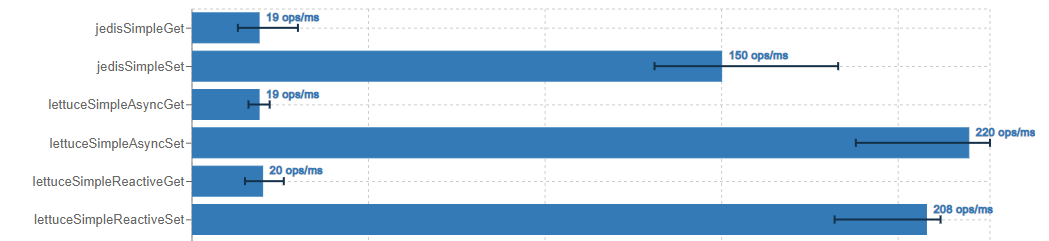
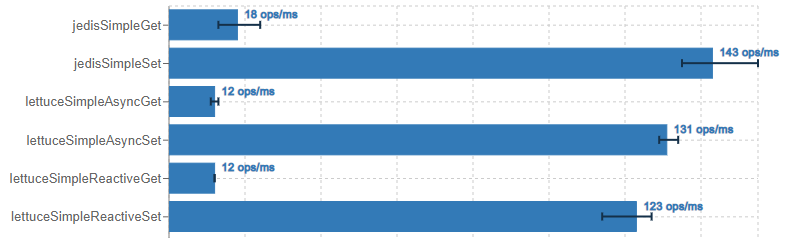
Updating sentinel benchmarks.

Changed region(s): [[0.0, 0.0, 1.0, 1.0], [0.8788, 0.0882, 0.9091, 0.1176], [0.6667, 0.0882, 0.697, 0.1176]]

diff --git a/README.md b/README.md
@@ -111,21 +111,21 @@ $ java -jar target/benchmarks.jar -wi 20 -i 20 -t 100 -f 3
 # Run complete. Total time: 02:11:18
 
 Benchmark                                 Mode  Cnt    Score   Error   Units
-RedisBenchmark.jedisSimpleGet            thrpt   60   18.339 ± 1.615  ops/ms
-RedisBenchmark.jedisSimpleSet            thrpt   60  144.416 ± 1.943  ops/ms
-RedisBenchmark.lettuceSimpleAsyncGet     thrpt   60   12.270 ± 0.235  ops/ms
-RedisBenchmark.lettuceSimpleAsyncSet     thrpt   60  131.237 ± 0.774  ops/ms
-RedisBenchmark.lettuceSimpleReactiveGet  thrpt   60   12.481 ± 0.110  ops/ms
-RedisBenchmark.lettuceSimpleReactiveSet  thrpt   60  125.046 ± 1.227  ops/ms
-RedisBenchmark.jedisSimpleGet             avgt   40    7.672 ± 1.247   ms/op
-RedisBenchmark.jedisSimpleSet             avgt   60    0.685 ± 0.012   ms/op
-RedisBenchmark.lettuceSimpleAsyncGet      avgt   60    8.107 ± 0.066   ms/op
-RedisBenchmark.lettuceSimpleAsyncSet      avgt   60    0.752 ± 0.007   ms/op
-RedisBenchmark.lettuceSimpleReactiveGet   avgt   60    8.108 ± 0.107   ms/op
-RedisBenchmark.lettuceSimpleReactiveSet   avgt   60    0.826 ± 0.014   ms/op
+RedisBenchmark.jedisSimpleGet            thrpt   60   17.858 ± 1.022  ops/ms
+RedisBenchmark.jedisSimpleSet            thrpt   60  143.064 ± 2.235  ops/ms
+RedisBenchmark.lettuceSimpleAsyncGet     thrpt   60   12.284 ± 0.151  ops/ms
+RedisBenchmark.lettuceSimpleAsyncSet     thrpt   60  131.441 ± 0.484  ops/ms
+RedisBenchmark.lettuceSimpleReactiveGet  thrpt   60   12.299 ± 0.060  ops/ms
+RedisBenchmark.lettuceSimpleReactiveSet  thrpt   60  122.818 ± 1.385  ops/ms
+RedisBenchmark.jedisSimpleGet             avgt   40    7.587 ± 1.216   ms/op
+RedisBenchmark.jedisSimpleSet             avgt   60    0.704 ± 0.010   ms/op
+RedisBenchmark.lettuceSimpleAsyncGet      avgt   60    8.037 ± 0.056   ms/op
+RedisBenchmark.lettuceSimpleAsyncSet      avgt   60    0.770 ± 0.012   ms/op
+RedisBenchmark.lettuceSimpleReactiveGet   avgt   60    8.063 ± 0.039   ms/op
+RedisBenchmark.lettuceSimpleReactiveSet   avgt   60    0.806 ± 0.005   ms/op
 ```
 
-`Productive throughput`
+`Throughput`
 <br/>
 <img src="https://raw.githubusercontent.com/rodrigobrito/redis-benchmark-java/master/img/BenchmarkRedisSentinelThroughput-wi20-i20-t100-f3.png"/>
 <br/>
